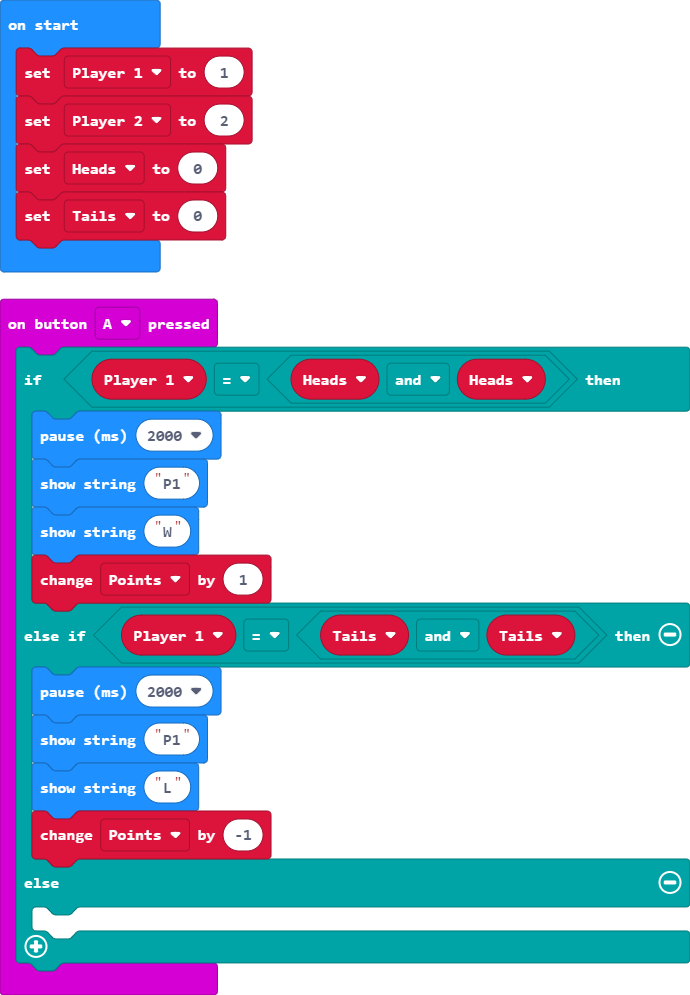
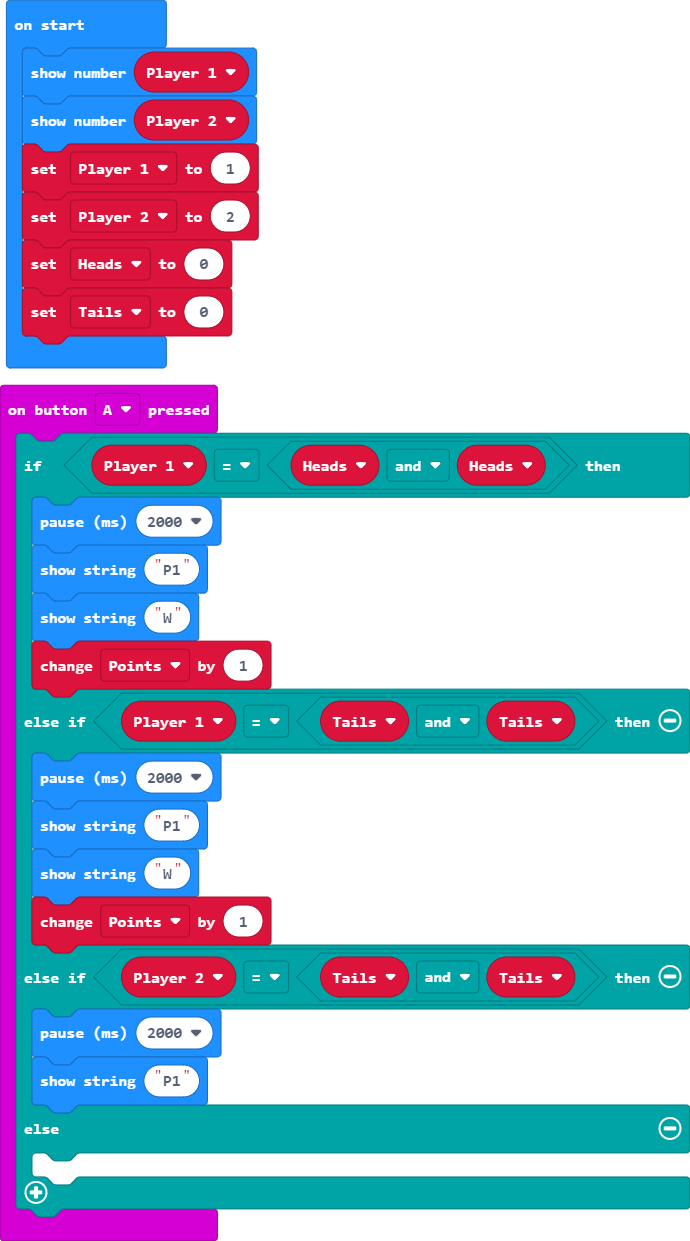
Update main.blocks, main.ts

diff --git a/main.ts b/main.ts
@@ -7,8 +7,11 @@ input.onButtonPressed(Button.A, function () {
     } else if (Player_1 == (Tails && Tails)) {
         basic.pause(2000)
         basic.showString("P1")
-        basic.showString("L")
-        Points += -1
+        basic.showString("W")
+        Points += 1
+    } else if (Player_2 == (Tails && Tails)) {
+        basic.pause(2000)
+        basic.showString("P1")
     } else {
     	
     }
@@ -16,8 +19,11 @@ input.onButtonPressed(Button.A, function () {
 let Points = 0
 let Tails = 0
 let Heads = 0
+let Player_2 = 0
 let Player_1 = 0
+basic.showNumber(Player_1)
+basic.showNumber(Player_2)
 Player_1 = 1
-let Player_2 = 2
+Player_2 = 2
 Heads = 0
 Tails = 0
